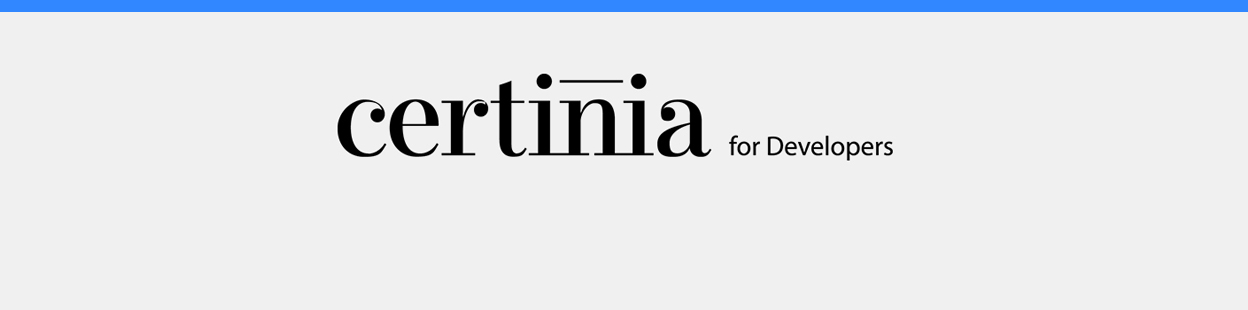
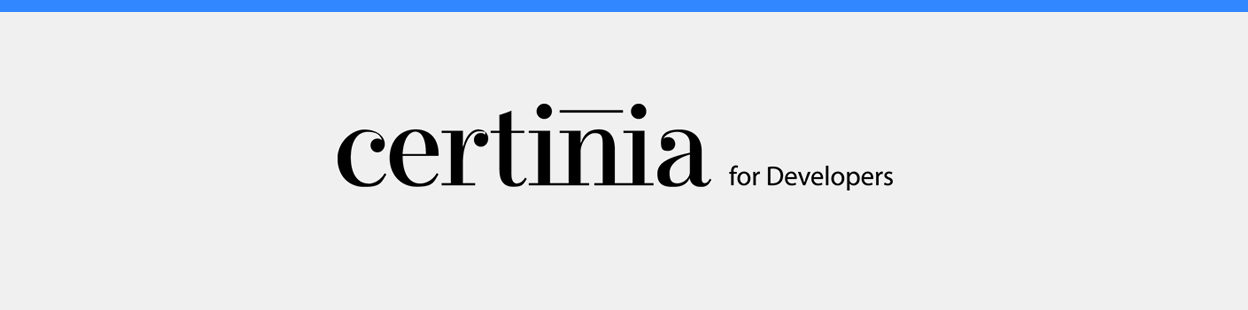
GITBOOK-16: No subject

Changed region(s): [[0.25, 0.2323, 0.7188, 0.6097]]

diff --git a/README.md b/README.md
@@ -1,6 +1,6 @@
 ---
 cover: .gitbook/assets/image.jpg
-coverY: 88
+coverY: 0
 layout:
   cover:
     visible: true
